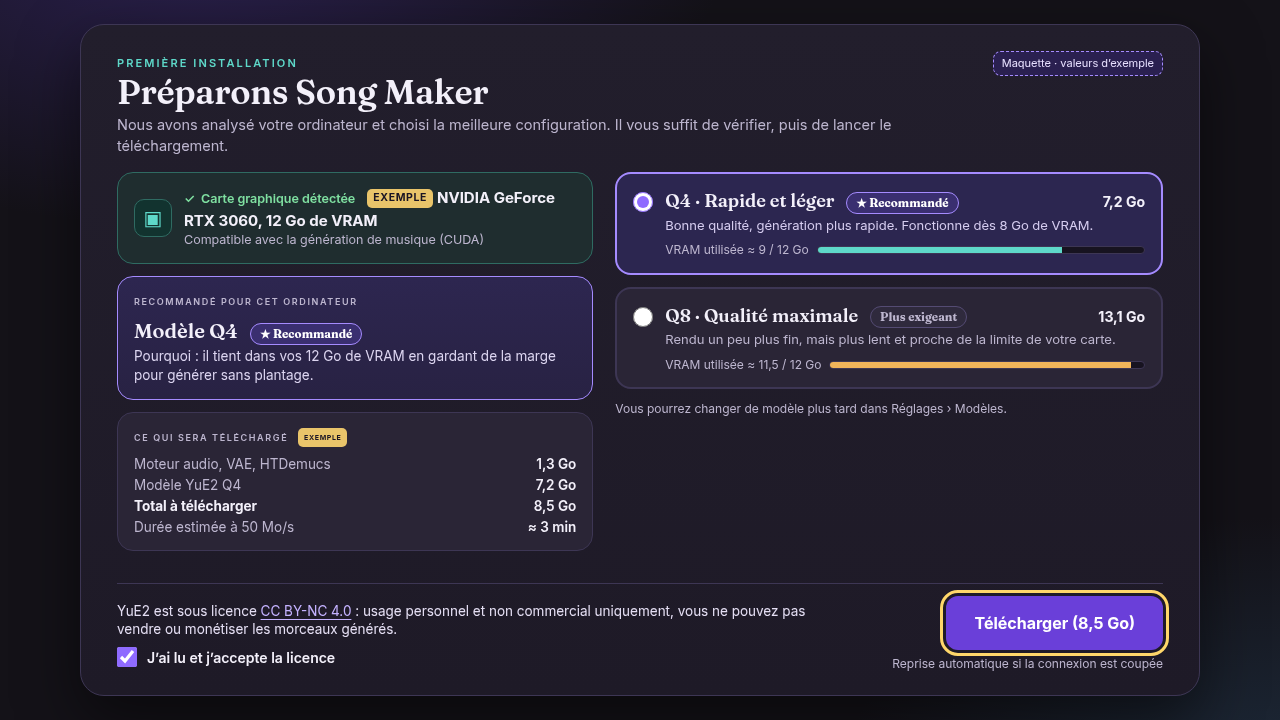
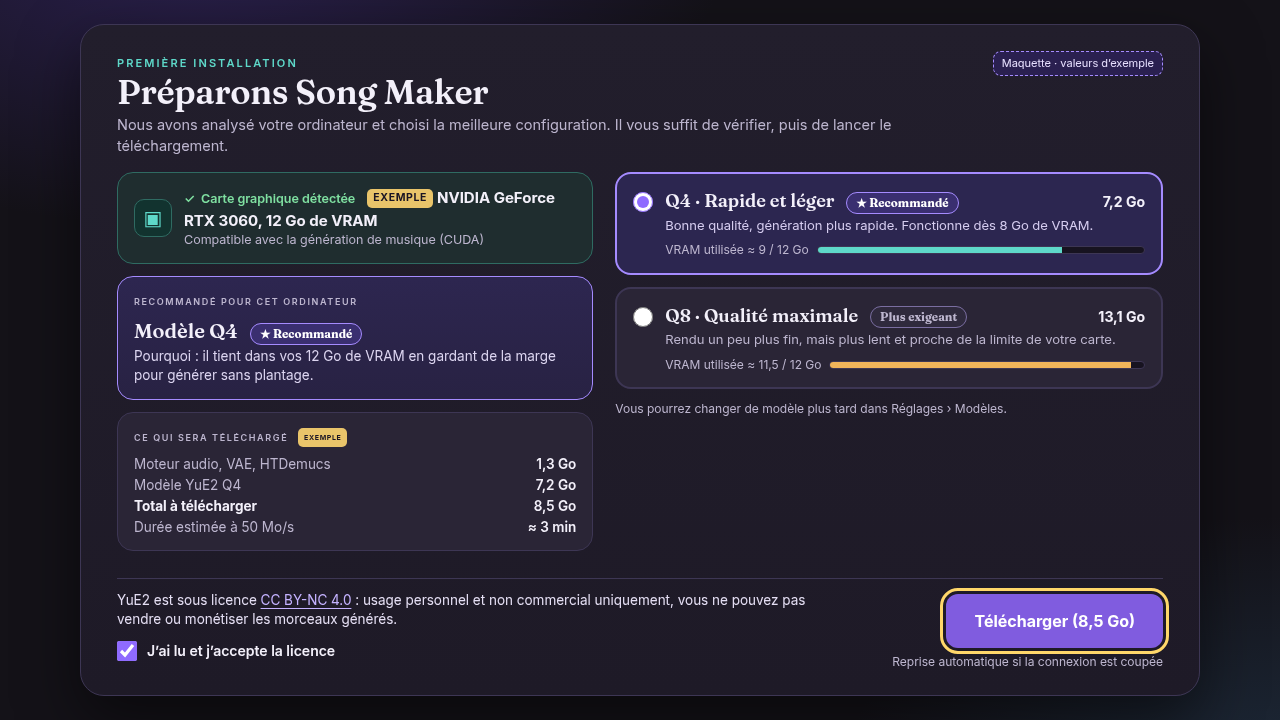
docs(design): contrastes AA mesurés, cibles 44 px, maquette premier lancement (#117)

Changed region(s): [[0.6875, 0.7944, 0.9375, 0.9472], [0.0938, 0.825, 0.625, 0.9472]]

diff --git a/docs/design/first-launch/index.html b/docs/design/first-launch/index.html
@@ -6,8 +6,8 @@
 <meta name="viewport" content="width=1280">
 <style>
 :root{
-  --bg:#141218; --bg2:#1b1723; --card:#221e2c; --card2:#2a2536; --line:#3d3654; --line2:#544b73;
-  --text:#f3f0fa; --muted:#bdb6cf; --teal:#5ed8c9; --purple:#a58bff; --purple-btn:#6a3fd9; --purple-btn-h:#7b52e6;
+  --bg:#141218; --bg2:#1b1723; --card:#221e2c; --card2:#2a2536; --line:#3d3654; --line2:#7a6ea1;
+  --text:#f3f0fa; --muted:#bdb6cf; --teal:#5ed8c9; --purple:#a58bff; --purple-btn:#805cdf; --purple-btn-h:#6a3fd9;
   --warn:#ffb4a8; --warn-bg:#3a1f26; --warn-line:#ff6b6b; --ok:#7fe0a1; --focus:#ffd76a;
   --serif:"Fraunces","Source Serif Pro","Noto Serif",Georgia,serif;
   --sans:"Inter","Segoe UI",system-ui,-apple-system,"Noto Sans",Arial,sans-serif;
@@ -59,7 +59,7 @@ h1{font-family:var(--serif);font-weight:600;font-size:34px;line-height:1.1;margi
 .foot{margin-top:14px;border-top:1px solid var(--line);padding-top:12px;display:flex;gap:24px;align-items:center;justify-content:space-between}
 .license{flex:1}
 .license p{font-size:13.5px;color:#e4def3;max-width:720px}
-.license .cb{display:flex;gap:10px;align-items:center;margin-top:8px;font-weight:600;font-size:14px}
+.license .cb{display:flex;gap:10px;align-items:center;margin-top:0;min-height:44px;font-weight:600;font-size:14px;cursor:pointer}
 .license input{width:20px;height:20px;accent-color:#8f6bff}
 a{color:#c4b2ff;text-decoration:underline;text-underline-offset:3px}
 .btn{font:inherit;font-weight:700;font-size:15px;border-radius:12px;padding:12px 22px;border:2px solid transparent;cursor:pointer;color:#fff;background:var(--purple-btn);display:inline-flex;gap:8px;align-items:center;justify-content:center;white-space:nowrap}
@@ -115,7 +115,7 @@ a{color:#c4b2ff;text-decoration:underline;text-underline-offset:3px}
 .errbox .ai{flex:none;width:32px;height:32px;border-radius:50%;background:#ff6b6b;color:#2a0d10;display:grid;place-items:center;font-weight:900;font-size:18px}
 .row-actions{display:flex;gap:12px;align-items:center;margin-top:auto;padding-top:12px}
 details{font-size:12.5px;color:var(--muted);margin-left:auto}
-summary{cursor:pointer;padding:4px 6px;border-radius:6px}
+summary{cursor:pointer;padding:4px 6px;border-radius:6px;display:inline-flex;align-items:center;min-height:44px;box-sizing:border-box}
 .rot{margin-left:auto}
 
 /* Sheet D */
@@ -338,8 +338,8 @@ body[data-view]:not([data-view="all"]) .nav{display:none}
    <div class="pt"><div class="k">5</div><div><span class="src">Krug · Langage clair et confiance</span><h3>La licence est expliquée avant la case à cocher, en une phrase</h3>
     <p>Usage personnel et non commercial : le consentement est éclairé, pas un « J’accepte » à l’aveugle. Les erreurs disent quoi faire (« vérifiez votre connexion, puis Reprendre ») et rassurent (« rien n’est perdu »). <em>Écrans A et C.</em></p></div></div>
   </div>
-  <div class="a11y"><b>Accessibilité :</b> contrastes ≥ 4,5:1 (texte) sur fond sombre · anneau de focus jaune de 3 px visible au clavier · alertes signalées par une icône, un titre et du texte, jamais par la couleur seule · barres de progression avec valeurs textuelles et rôle <em>progressbar</em> · cibles ≥ 44 px de hauteur.
-   <div class="sw-row"><span style="background:#221e2c;color:#f3f0fa">Texte #F3F0FA / #221E2C</span><span style="background:#221e2c;color:#5ed8c9">Sur-titre #5ED8C9</span><span style="background:#6a3fd9;color:#fff">Bouton #FFF / #6A3FD9</span><span style="background:#3a1f26;color:#ffd5cf">Alerte #FFD5CF / #3A1F26</span><span style="background:#221e2c;color:#ffd76a">Focus #FFD76A</span></div>
+  <div class="a11y"><b>Accessibilité :</b> contrastes ≥ 4,5:1 (texte) sur fond sombre · anneau de focus jaune de 3 px visible au clavier · alertes signalées par une icône, un titre et du texte, jamais par la couleur seule · barres de progression avec valeurs textuelles et rôle <em>progressbar</em> · boutons ≥ 44 px de hauteur ; zone cliquable de la case de licence et de « Détails techniques » portée à 44 px (marge intérieure).
+   <div class="sw-row"><span style="background:#221e2c;color:#f3f0fa">Texte #F3F0FA / #221E2C</span><span style="background:#221e2c;color:#5ed8c9">Sur-titre #5ED8C9</span><span style="background:#805cdf;color:#fff">Bouton #FFF / #805CDF</span><span style="background:#3a1f26;color:#ffd5cf">Alerte #FFD5CF / #3A1F26</span><span style="background:#221e2c;color:#ffd76a">Focus #FFD76A</span></div>
   </div>
   <p class="hint" style="margin-top:8px">Toutes les valeurs (GPU, tailles, durées) sont des données d’exemple pour la maquette.</p>
  </div>

diff --git a/docs/design/first-launch/contrastes.md b/docs/design/first-launch/contrastes.md
@@ -1,0 +1,323 @@
+# Contrastes WCAG 2.2 — maquette Song Maker (thème sombre, premier lancement)
+
+Fichier audité : `/workspace/songmaker-mockup/index.html` (états A, B, C et fiche D), rendu Chrome headless 1280×720.
+Date : 29/09/2026 (Europe/Paris).
+
+## Méthode
+
+- Playwright (Chromium headless, même configuration que `render.py`). Pour **chaque nœud de texte visible** : couleur calculée (`getComputedStyle().color`, alpha fondu), taille et graisse calculées.
+- Fond effectif : capture d'écran avec le texte rendu transparent, puis lecture de **tous les pixels réels derrière chaque ligne de texte** (dégradés, fonds semi-transparents et empilement des ancêtres inclus) ; on retient le pire ratio du nœud.
+- Ratio = formule WCAG 2.x de luminance relative : (L1 + 0,05) / (L2 + 0,05).
+- Seuils : texte normal 4,5:1 ; grand texte (≥ 24 px, ou ≥ 18,66 px en gras) 3:1 ; éléments d'interface non textuels (bordures de contrôles, anneau de focus, remplissage de barre vs piste, icônes porteuses de sens) 3:1 (1.4.11).
+- Composants d'interface : couleurs lues dans le CSS calculé (fond, bordure, outline, `accent-color`) et vérifiées sur pixels ; fond = fond visible autour du composant (élément masqué).
+- Grille de contrôle complémentaire (checklist du skill accessibilité) : états non uniquement en couleur, focus visible, taille des cibles.
+
+## Résultat
+
+- **Paires texte/fond mesurées : 163 nœuds de texte, soit 44 couples de couleurs uniques** — 0 KO.
+- **Composants d'interface / fond : 35 paires** dont 26 exigées (contrôles, focus, barres, icônes porteuses de sens) et 9 indicatives (bordures décoratives de cartes, doublées par du texte ou un contrôle natif).
+- **Échecs avant correction : 12 paires d'interface exigées** (A1, B1-B4, B6, C2, C5-C7, C9, C11), 0 pour le texte. **Après correction : 0 KO.**
+
+## 1. Texte (couples uniques ; annexe = détail des 163 nœuds)
+
+| Élément(s) (exemple) | Écrans | Couleurs (texte / fond) | Ratio | Seuil | Verdict |
+|---|---|---|---|---|---|
+| « Télécharger (8,5 Go) » (16 px/700); « Continuer sans génération » (15 px/700) (+8 autres) | ABCD | `#FFFFFF` / `#805CDF` | 4.65:1 | 4.5:1 | OK |
+| « ! » (20 px/900) | B | `#2A0D10` / `#FF6B6B` | 6.50:1 | 3:1 | OK |
+| « ! » (18 px/900) | C | `#2A0D10` / `#FF6B6B` | 6.50:1 | 4.5:1 | OK |
+| « Plus exigeant » (11.5 px/700) | A | `#BDB6CF` / `#2F2A3D` | 7.08:1 | 4.5:1 | OK |
+| « Recommandé pour cet ordinate… » (13.5 px/600) | A | `#BDB6CF` / `#2D264F` | 7.16:1 | 4.5:1 | OK |
+| « VRAM utilisée ≈ 9 / 12 Go » (12 px/400); « Option 3 · Disponible tout d… » (13 px/400) (+3 autres) | AB | `#BDB6CF` / `#2C2650` | 7.17:1 | 4.5:1 | OK |
+| « Compatible avec la génératio… » (12.5 px/400) | A | `#BDB6CF` / `#1F2D2F` | 7.29:1 | 4.5:1 | OK |
+| « Ce qui sera téléchargé » (13.5 px/600); « Moteur audio, VAE, HTDemucs » (13.5 px/400) (+32 autres) | ABCD | `#BDB6CF` / `#2A2536` | 7.59:1 | 4.5:1 | OK |
+| « Modèle de génération » (12 px/400); « / 7,2 Go · 43 % » (12.5 px/400) (+3 autres) | C | `#BDB6CF` / `#2F2130` | 7.79:1 | 4.5:1 | OK |
+| « ▣ » (20 px/400) | A | `#5ED8C9` / `#12332F` | 7.88:1 | 4.5:1 | OK |
+| « Nous avons analysé votre ord… » (14.5 px/400); « Choisissez comment vous souh… » (14.5 px/400) (+2 autres) | ABC | `#BDB6CF` / `#221E2C` | 8.34:1 | 4.5:1 | OK |
+| « Vous pourrez changer de modè… » (12 px/400) | A | `#BDB6CF` / `#201C2A` | 8.53:1 | 4.5:1 | OK |
+| « Total : » (13 px/400); « reçus sur 8,5 Go (41 %) » (13 px/400) (+2 autres) | C | `#BDB6CF` / `#201C29` | 8.54:1 | 4.5:1 | OK |
+| « Norman · Retour d’informatio… » (13 px/600); « Norman · Affordances et cont… » (13 px/600) (+4 autres) | D | `#5ED8C9` / `#2A2536` | 8.57:1 | 4.5:1 | OK |
+| « Reprise automatique si la co… » (12 px/400); « Aucun modèle lourd ne sera t… » (12.5 px/400) (+3 autres) | ABC | `#BDB6CF` / `#1F1B28` | 8.63:1 | 4.5:1 | OK |
+| « ✓ » (12.5 px/600); « Carte graphique détectée » (12.5 px/600) (+1 autres) | A | `#7FE0A1` / `#1F2D2F` | 8.87:1 | 4.5:1 | OK |
+| « contrastes ≥ 4,5:1 (texte) s… » (12.5 px/400); « progressbar » (12.5 px/400) (+2 autres) | D | `#BDB6CF` / `#1C1826` | 8.90:1 | 4.5:1 | OK |
+| « ⚠ » (13 px/700); « Interrompu » (13 px/700) (+1 autres) | C | `#FFB4A8` / `#2F2130` | 8.94:1 | 4.5:1 | OK |
+| « CC BY-NC 4.0 » (13.5 px/400) | A | `#C4B2FF` / `#1F1B28` | 8.96:1 | 4.5:1 | OK |
+| « Toutes les valeurs (GPU, tai… » (12 px/400) | D | `#BDB6CF` / `#1C1725` | 8.97:1 | 4.5:1 | OK |
+| « Bonne qualité, génération pl… » (13 px/400); « Utilisez la » (13 px/400) (+5 autres) | AB | `#D6CDF0` / `#2C2650` | 9.23:1 | 4.5:1 | OK |
+| « ✓ » (13 px/700); « Terminé » (13 px/700) (+1 autres) | C | `#7FE0A1` / `#2A2536` | 9.23:1 | 4.5:1 | OK |
+| « Première installation » (15 px/600) (+3 autres) | ABCD | `#5ED8C9` / `#221E2C` | 9.41:1 | 4.5:1 | OK |
+| « Fiche de conception » (15 px/600) | D | `#5ED8C9` / `#201B2B` | 9.69:1 | 4.5:1 | OK |
+| « Détection du GPU, progressio… » (13 px/400); « texte. » (13 px/400) (+5 autres) | D | `#D7D0E8` / `#2A2536` | 9.94:1 | 4.5:1 | OK |
+| « Pourquoi : il tient dans vos… » (13.5 px/400) | A | `#DCD5F0` / `#2B2449` | 10.21:1 | 4.5:1 | OK |
+| « Exemple » (10.5 px/700) (+2 autres) | AB | `#1A1424` / `#E9C46A` | 10.75:1 | 4.5:1 | OK |
+| « Attention : aucune carte gra… » (16 px/700); « La connexion Internet a été … » (15.5 px/700) (+2 autres) | BCD | `#FFD5CF` / `#3A1F26` | 11.16:1 | 4.5:1 | OK |
+| « La génération de musique dem… » (13.5 px/400); « NVIDIA » (13.5 px/700) (+7 autres) | BC | `#F5DCD8` / `#3A1F26` | 11.48:1 | 4.5:1 | OK |
+| « ★ Recommandé » (11.5 px/700) (+1 autres) | A | `#FFFFFF` / `#3A2F70` | 11.54:1 | 4.5:1 | OK |
+| « Maquette · valeurs d’exemple » (11 px/400) (+2 autres) | ABC | `#E8E1FF` / `#2A2050` | 11.71:1 | 4.5:1 | OK |
+| « Focus #FFD76A » (11.5 px/400) | D | `#FFD76A` / `#221E2C` | 11.77:1 | 4.5:1 | OK |
+| « Q4 · Rapide et léger » (18 px/600); « 7,2 Go » (14 px/700) (+2 autres) | AB | `#F3F0FA` / `#2C2650` | 12.44:1 | 4.5:1 | OK |
+| « Modèle Q4 » (20 px/600) | A | `#F3F0FA` / `#2C254C` | 12.64:1 | 4.5:1 | OK |
+| « NVIDIA GeForce RTX 3060, 12 … » (15 px/700) | A | `#F3F0FA` / `#1F2D2F` | 12.65:1 | 4.5:1 | OK |
+| « YuE2 est sous licence » (13.5 px/400); « : usage personnel et non com… » (13.5 px/400) (+1 autres) | A | `#E4DEF3` / `#1F1B28` | 12.88:1 | 4.5:1 | OK |
+| « 1,3 Go » (13.5 px/600); « 7,2 Go » (13.5 px/600) (+23 autres) | ABCD | `#F3F0FA` / `#2A2536` | 13.17:1 | 4.5:1 | OK |
+| « YuE2 (Q4) » (14.5 px/700); « 3,1 Go » (12.5 px/600) (+1 autres) | C | `#F3F0FA` / `#2F2130` | 13.51:1 | 4.5:1 | OK |
+| « Préparons Song Maker » (34 px/600) (+2 autres) | ABC | `#F3F0FA` / `#221E2C` | 14.46:1 | 3:1 | OK |
+| « Texte #F3F0FA / #221E2C » (11.5 px/400) | D | `#F3F0FA` / `#221E2C` | 14.46:1 | 4.5:1 | OK |
+| « 3,5 Go » (13 px/700) | C | `#F3F0FA` / `#201C29` | 14.81:1 | 4.5:1 | OK |
+| « Pourquoi cet écran est plus … » (30 px/600) | D | `#F3F0FA` / `#201B2B` | 14.89:1 | 3:1 | OK |
+| « J’ai lu et j’accepte la lice… » (14 px/600); « Annuler et revenir au choix » (15 px/700) (+1 autres) | AC | `#F3F0FA` / `#1F1B28` | 14.98:1 | 4.5:1 | OK |
+| « Accessibilité : » (12.5 px/700) | D | `#F3F0FA` / `#1C1826` | 15.44:1 | 4.5:1 | OK |
+
+Notes : le texte du bouton principal est passé de 6,31:1 à 4,65:1 (couleur de bouton éclaircie, voir corrections) — toujours OK. Les titres H1 (34 px / 30 px) sont évalués en grand texte (3:1) et dépassent largement 14:1. Le texte le plus faible restant est `#FFF` sur `#805CDF` à 4,65:1.
+
+## 2. Composants d'interface (non-texte, 3:1)
+
+Colonnes « Avant » = valeurs d'origine ; « Après » = valeurs après correction.
+
+| N° | Écran | Composant / fond | Couleurs après | Ratio avant | Ratio après | Seuil | Verdict avant | Verdict après |
+|---|---|---|---|---|---|---|---|---|
+| A1 | A | Bouton principal « Télécharger » : remplissage / fond de carte | `#805CDF` / `#1F1B28` | 2.67:1 | 3.62:1 | 3:1 | KO | OK |
+| A2 | A | Anneau de focus 3 px « Télécharger » / fond de carte | `#FFD76A` / `#1F1B28` | 12.19:1 | 12.19:1 | 3:1 | OK | OK |
+| A3 | A | Radio Q4 (cochée) : remplissage accent / fond de carte | `#FFFFFF` / `#2C2650` | 14.00:1 | 14.00:1 | 3:1 | OK | OK |
+| A4 | A | Radio Q8 (non cochée) : contour natif / fond de carte | `#7D7C7D` / `#2A2536` | 3.57:1 | 3.57:1 | 3:1 | OK | OK |
+| A5 | A | Case licence (cochée) : remplissage accent / fond | `#C2AEFF` / `#1E1A28` | 8.75:1 | 8.75:1 | 3:1 | OK | OK |
+| A6 | A | Jauge VRAM Q4 : remplissage / piste | `#5ED8C9` / `#171320` | 10.55:1 | 10.55:1 | 3:1 | OK | OK |
+| A7 | A | Jauge VRAM Q8 : remplissage / piste | `#F0B45A` / `#171320` | 9.89:1 | 9.89:1 | 3:1 | OK | OK |
+| A8 | A | Icône ▣ GPU (pastille) : bordure / fond du panneau | `#2F6B62` / `#1F2D2F` | 2.31:1 | 2.31:1 | 3:1 | KO (indicatif) | KO (indicatif) |
+| A9 | A | Carte modèle Q4 sélectionnée : bordure 2 px / fond | `#A58BFF` / `#221E2B` | 6.00:1 | 6.00:1 | 3:1 | OK | OK |
+| A10 | A | Carte modèle Q8 : bordure 2 px / fond | `#3D3654` / `#211D2A` | 1.46:1 | 1.46:1 | 3:1 | KO (indicatif) | KO (indicatif) |
+| B1 | B | Bouton secondaire « Ouvrir la page des pilotes » : bordure 2 px / fond | `#7A6EA1` / `#2A2536` | 1.86:1 | 3.23:1 | 3:1 | KO | OK |
+| B2 | B | Bouton secondaire « Relancer la détection » : bordure 2 px / fond | `#7A6EA1` / `#2A2536` | 1.86:1 | 3.23:1 | 3:1 | KO | OK |
+| B3 | B | Bouton secondaire « Configurer un worker » : bordure 2 px / fond | `#7A6EA1` / `#2A2536` | 1.86:1 | 3.23:1 | 3:1 | KO | OK |
+| B4 | B | Interrupteur worker (désactivé) : bordure de la piste / fond | `#7A6EA1` / `#2A2536` | 1.86:1 | 3.23:1 | 3:1 | KO | OK |
+| B5 | B | Interrupteur worker : pastille / piste | `#BDB6CF` / `#171320` | 9.35:1 | 9.35:1 | 3:1 | OK | OK |
+| B6 | B | Bouton principal « Continuer sans génération » : remplissage / fond de carte | `#805CDF` / `#2C2650` | 2.22:1 | 3.01:1 | 3:1 | KO | OK |
+| B7 | B | Anneau de focus « Continuer sans génération » / fond de carte | `#FFD76A` / `#2C2650` | 10.12:1 | 10.12:1 | 3:1 | OK | OK |
+| B8 | B | Icône « ! » (disque) : remplissage / fond de l’alerte | `#FF6B6B` / `#3A1F26` | 5.39:1 | 5.39:1 | 3:1 | OK | OK |
+| B9 | B | Cadre d’alerte : bordure 2 px / fond de carte | `#FF6B6B` / `#221E2C` | 5.87:1 | 5.87:1 | 3:1 | OK | OK |
+| B10 | B | Carte option 3 : bordure 2 px / fond de carte | `#A58BFF` / `#211D2B` | 6.07:1 | 6.07:1 | 3:1 | OK | OK |
+| C1 | C | Barre Moteur audio (100 %) : remplissage / piste | `#5ED8C9` / `#171320` | 10.55:1 | 10.55:1 | 3:1 | OK | OK |
+| C2 | C | Barre Moteur audio : bordure de la piste / fond de ligne | `#7A6EA1` / `#2A2536` | 1.86:1 | 3.23:1 | 3:1 | KO | OK |
+| C3 | C | Barre YuE2 (43 %) : hachures claires / piste | `#FF8F8F` / `#171320` | 8.33:1 | 8.33:1 | 3:1 | OK | OK |
+| C4 | C | Barre YuE2 (43 %) : hachures foncées / piste | `#D95C5C` / `#171320` | 4.90:1 | 4.90:1 | 3:1 | OK | OK |
+| C5 | C | Barre YuE2 : bordure de la piste / fond de ligne | `#7A6EA1` / `#2F2130` | 1.90:1 | 3.31:1 | 3:1 | KO | OK |
+| C6 | C | Barre VAE (0 %, vide) : bordure de la piste / fond de ligne | `#7A6EA1` / `#2A2536` | 1.86:1 | 3.23:1 | 3:1 | KO | OK |
+| C7 | C | Barre HTDemucs (0 %, vide) : bordure de la piste / fond de ligne | `#7A6EA1` / `#2A2536` | 1.86:1 | 3.23:1 | 3:1 | KO | OK |
+| C8 | C | Icône « ! » (disque) : remplissage / fond du cadre | `#FF6B6B` / `#3A1F26` | 5.39:1 | 5.39:1 | 3:1 | OK | OK |
+| C9 | C | Bouton principal « Reprendre » : remplissage / fond de carte | `#805CDF` / `#1F1B28` | 2.67:1 | 3.62:1 | 3:1 | KO | OK |
+| C10 | C | Anneau de focus « Reprendre » / fond de carte | `#FFD76A` / `#1F1B28` | 12.19:1 | 12.19:1 | 3:1 | OK | OK |
+| C11 | C | Bouton secondaire « Annuler et revenir » : bordure 2 px / fond de carte | `#7A6EA1` / `#1F1B28` | 2.11:1 | 3.67:1 | 3:1 | KO | OK |
+| C12 | C | Ligne en erreur : bordure 2 px / fond de carte | `#FF6B6B` / `#211D2B` | 5.93:1 | 5.93:1 | 3:1 | OK | OK |
+| C13 | C | Cadre d’erreur : bordure 2 px / fond de carte | `#FF6B6B` / `#1F1B29` | 6.07:1 | 6.07:1 | 3:1 | OK | OK |
+| D1 | D | Pastille numérotée 1–5 : disque / fond de carte | `#805CDF` / `#2A2536` | 2.35:1 | 3.19:1 | 3:1 | KO (indicatif) | OK |
+| D2 | D | Échantillon de couleur (bordure 1 px) / fond | `#7A6EA1` / `#1C1725` | 2.19:1 | 3.81:1 | 3:1 | KO (indicatif) | OK |
+
+Lecture des lignes « indicatives » (non comptées comme échec) :
+- A8 (bordure de la pastille ▣, 2,31:1) : icône décorative (`aria-hidden`), l'information est portée par le texte « Carte graphique détectée » (8,87:1).
+- A10 (bordure de la carte Q8 non sélectionnée, 1,46:1) et A9/B10/C12/C13 : la sélection est portée par le contrôle radio natif (A4 : 3,57:1) et le texte ; la bordure de carte n'est pas l'unique identifiant. **Recommandation facultative** : éclaircir `--line` (`#3D3654`) pour la carte Q8 si l'on veut que la zone cliquable soit aussi repérable (non requis par 1.4.11).
+- D1/D2 : éléments de la fiche de conception, pas de contrôles. D1 (pastille numérotée) passe à 3,19:1 grâce à la nouvelle couleur de bouton.
+- Anneau de focus jaune `#FFD76A` (3 px, décalage 3 px) : 10,1 à 12,2:1 sur tous les fonds de carte ; contre le bouton violet adjacent il fait 4,56:1 (ancien `#6A3FD9`) et 3,4:1 (nouveau `#805CDF`) : OK.
+
+## 3. États non signalés par la couleur seule (1.4.1)
+
+| État | Indices non chromatiques | Verdict |
+|---|---|---|
+| Modèle sélectionné (A) | Radio coché (natif), pastille « ★ Recommandé » avec texte, épaisseur de bordure | OK |
+| Charge VRAM Q4 vs Q8 (A) | Valeurs textuelles « ≈ 9 / 12 Go » et « ≈ 11,5 / 12 Go » ; jauge `aria-hidden` (décorative) | OK |
+| GPU détecté (A) | Icône ✓ + texte « Carte graphique détectée » | OK |
+| Alerte sans GPU (B) | Icône « ! » + titre « Attention : … » + texte + `role="alert"` | OK |
+| Interrupteur worker (B) | Position du bouton à gauche + texte « (désactivé) » | OK |
+| Terminé / Interrompu / En attente (C) | Icônes ✓ / ⚠ / ◷ + libellés texte | OK |
+| Barre en erreur (C) | Hachures (motif) + libellé « Interrompu » + pourcentage 43 % ; `role="progressbar"` avec `aria-valuenow` | OK |
+| Barres vide / pleine (C) | Pourcentage et octets en texte | OK |
+| Focus clavier | Anneau 3 px décalé de 3 px (forme), pas seulement une teinte | OK |
+| Liens | Souligné (`text-decoration:underline`) | OK |
+
+## 4. Autres points de la checklist accessibilité (vérifiés, hors contraste)
+
+- `lang="fr"`, un `<h1>` par écran, landmarks `<main>`, sections nommées : OK.
+- Focus visible défini (`:focus-visible`, 3 px `#FFD76A`) sur boutons, liens, champs, `summary` : OK (2.4.7). Non masqué par un élément fixe : OK (2.4.11).
+- Taille des cibles (2.5.8, 24 px min) : boutons 49–54 px de haut, cartes modèle 548×103, `summary` 134×26 : OK. Les cases/radios natives font 20×20 px mais l'étiquette entière est cliquable ; l'étiquette de la case de licence fait 751×20 px (hauteur 20 < 24 px, exception d'espacement probable, aucun autre contrôle dans un rayon de 24 px). **À surveiller.**
+- La fiche D annonce « cibles ≥ 44 px de hauteur » : vrai pour les boutons (49–54 px) mais pas pour la case de licence (20 px) ni « Détails techniques » (26 px). Formulation à nuancer (aucun changement appliqué).
+- Le texte des puces d'exemple en 11 px et les badges 10,5–11 px passent le contraste mais sont petits (lisibilité, non couvert par WCAG AA).
+
+## 5. Corrections appliquées dans `index.html`
+
+| Variable CSS | Ancienne valeur | Nouvelle valeur | Raison |
+|---|---|---|---|
+| `--line2` | `#544B73` | `#7A6EA1` | Bordures des boutons secondaires (B1-B3, C11), contour de l'interrupteur (B4), bordures des pistes de barres de progression (C2, C5-C7) : 1,7–2,1:1 → 3,2–3,7:1. Valeur minimale conservant la teinte (même H et S, luminosité augmentée) qui atteint ≥ 3:1 sur le pire fond (`#2A2536`, `#2F2130`). |
+| `--purple-btn` | `#6A3FD9` | `#805CDF` | Fond des boutons principaux (A1, B6, C9) et pastilles D1 : 2,2–2,7:1 → 3,0–3,6:1 contre le fond de carte. Texte blanc dessus : 6,31:1 → 4,65:1 (OK). |
+| `--purple-btn-h` (survol) | `#7B52E6` | `#6A3FD9` | L'ancien survol, plus clair que le nouveau bouton, aurait cassé le texte blanc de justesse ; on utilise l'ancienne couleur du bouton (blanc dessus : 6,31:1). |
+| Échantillon fiche D (`style` inline) | `#6a3fd9` + libellé « #FFF / #6A3FD9 » | `#805cdf` + libellé « #FFF / #805CDF » | Cohérence avec le nouveau bouton. |
+
+Les PNG ont été régénérés avec `python3 render.py` :
+`etat-a-gpu-detecte.png`, `etat-b-sans-gpu.png`, `etat-c-telechargement-interrompu.png`, `fiche-d-rationale-design.png` (dans `/workspace/songmaker-mockup/`).
+
+## Annexe — détail des 163 nœuds de texte (après correction)
+
+| Écran | Élément | Texte | Couleurs | Taille/graisse | Ratio | Seuil | Verdict |
+|---|---|---|---|---|---|---|---|
+| A | `div.eyebrow` | Première installation | `#5ED8C9` / `#221E2C` | 15 px / 600 | 9.41:1 | 4.5:1 | OK |
+| A | `h1` | Préparons Song Maker | `#F3F0FA` / `#221E2C` | 34 px / 600 | 14.46:1 | 3:1 | OK |
+| A | `p.lead` | Nous avons analysé votre ordinateur  | `#BDB6CF` / `#221E2C` | 14.5 px / 400 | 8.34:1 | 4.5:1 | OK |
+| A | `span.mockbadge` | Maquette · valeurs d’exemple | `#E8E1FF` / `#2A2050` | 11 px / 400 | 11.71:1 | 4.5:1 | OK |
+| A | `div.ico` | ▣ | `#5ED8C9` / `#12332F` | 20 px / 400 | 7.88:1 | 4.5:1 | OK |
+| A | `span` | ✓ | `#7FE0A1` / `#1F2D2F` | 12.5 px / 600 | 8.87:1 | 4.5:1 | OK |
+| A | `span.status` | Carte graphique détectée | `#7FE0A1` / `#1F2D2F` | 12.5 px / 600 | 8.87:1 | 4.5:1 | OK |
+| A | `span.tag-ex` | Exemple | `#1A1424` / `#E9C46A` | 10.5 px / 700 | 10.75:1 | 4.5:1 | OK |
+| A | `b` | NVIDIA GeForce RTX 3060, 12 Go de VR | `#F3F0FA` / `#1F2D2F` | 15 px / 700 | 12.65:1 | 4.5:1 | OK |
+| A | `small` | Compatible avec la génération de mus | `#BDB6CF` / `#1F2D2F` | 12.5 px / 400 | 7.29:1 | 4.5:1 | OK |
+| A | `h2` | Recommandé pour cet ordinateur | `#BDB6CF` / `#2D264F` | 13.5 px / 600 | 7.16:1 | 4.5:1 | OK |
+| A | `div.big` | Modèle Q4 | `#F3F0FA` / `#2C254C` | 20 px / 600 | 12.64:1 | 4.5:1 | OK |
+| A | `span.chip` | ★ Recommandé | `#FFFFFF` / `#3A2F70` | 11.5 px / 700 | 11.54:1 | 4.5:1 | OK |
+| A | `p` | Pourquoi : il tient dans vos 12 Go d | `#DCD5F0` / `#2B2449` | 13.5 px / 400 | 10.21:1 | 4.5:1 | OK |
+| A | `h2` | Ce qui sera téléchargé | `#BDB6CF` / `#2A2536` | 13.5 px / 600 | 7.59:1 | 4.5:1 | OK |
+| A | `span.tag-ex` | Exemple | `#1A1424` / `#E9C46A` | 10.5 px / 700 | 10.75:1 | 4.5:1 | OK |
+| A | `dt` | Moteur audio, VAE, HTDemucs | `#BDB6CF` / `#2A2536` | 13.5 px / 400 | 7.59:1 | 4.5:1 | OK |
+| A | `dd` | 1,3 Go | `#F3F0FA` / `#2A2536` | 13.5 px / 600 | 13.17:1 | 4.5:1 | OK |
+| A | `dt` | Modèle YuE2 Q4 | `#BDB6CF` / `#2A2536` | 13.5 px / 400 | 7.59:1 | 4.5:1 | OK |
+| A | `dd` | 7,2 Go | `#F3F0FA` / `#2A2536` | 13.5 px / 600 | 13.17:1 | 4.5:1 | OK |
+| A | `dt` | Total à télécharger | `#F3F0FA` / `#2A2536` | 13.5 px / 700 | 13.17:1 | 4.5:1 | OK |
+| A | `dd` | 8,5 Go | `#F3F0FA` / `#2A2536` | 13.5 px / 600 | 13.17:1 | 4.5:1 | OK |
+| A | `dt` | Durée estimée à 50 Mo/s | `#BDB6CF` / `#2A2536` | 13.5 px / 400 | 7.59:1 | 4.5:1 | OK |
+| A | `dd` | ≈ 3 min | `#F3F0FA` / `#2A2536` | 13.5 px / 600 | 13.17:1 | 4.5:1 | OK |
+| A | `b` | Q4 · Rapide et léger | `#F3F0FA` / `#2C2650` | 18 px / 600 | 12.44:1 | 4.5:1 | OK |
+| A | `span.chip` | ★ Recommandé | `#FFFFFF` / `#3A2F70` | 11.5 px / 700 | 11.54:1 | 4.5:1 | OK |
+| A | `span.size` | 7,2 Go | `#F3F0FA` / `#2C2650` | 14 px / 700 | 12.44:1 | 4.5:1 | OK |
+| A | `p` | Bonne qualité, génération plus rapid | `#D6CDF0` / `#2C2650` | 13 px / 400 | 9.23:1 | 4.5:1 | OK |
+| A | `span` | VRAM utilisée ≈ 9 / 12 Go | `#BDB6CF` / `#2C2650` | 12 px / 400 | 7.17:1 | 4.5:1 | OK |
+| A | `b` | Q8 · Qualité maximale | `#F3F0FA` / `#2A2536` | 18 px / 600 | 13.17:1 | 4.5:1 | OK |
+| A | `span.chip.neutral` | Plus exigeant | `#BDB6CF` / `#2F2A3D` | 11.5 px / 700 | 7.08:1 | 4.5:1 | OK |
+| A | `span.size` | 13,1 Go | `#F3F0FA` / `#2A2536` | 14 px / 700 | 13.17:1 | 4.5:1 | OK |
+| A | `p` | Rendu un peu plus fin, mais plus len | `#BDB6CF` / `#2A2536` | 13 px / 400 | 7.59:1 | 4.5:1 | OK |
+| A | `span` | VRAM utilisée ≈ 11,5 / 12 Go | `#BDB6CF` / `#2A2536` | 12 px / 400 | 7.59:1 | 4.5:1 | OK |
+| A | `p.hint` | Vous pourrez changer de modèle plus  | `#BDB6CF` / `#201C2A` | 12 px / 400 | 8.53:1 | 4.5:1 | OK |
+| A | `p` | YuE2 est sous licence | `#E4DEF3` / `#1F1B28` | 13.5 px / 400 | 12.88:1 | 4.5:1 | OK |
+| A | `a` | CC BY-NC 4.0 | `#C4B2FF` / `#1F1B28` | 13.5 px / 400 | 8.96:1 | 4.5:1 | OK |
+| A | `p` | : usage personnel et non commercial  | `#E4DEF3` / `#1F1B28` | 13.5 px / 400 | 12.88:1 | 4.5:1 | OK |
+| A | `label.cb` | J’ai lu et j’accepte la licence | `#F3F0FA` / `#1F1B28` | 14 px / 600 | 14.98:1 | 4.5:1 | OK |
+| A | `button.btn.lg.focus-demo` | Télécharger (8,5 Go) | `#FFFFFF` / `#805CDF` | 16 px / 700 | 4.65:1 | 4.5:1 | OK |
+| A | `span.hint` | Reprise automatique si la connexion  | `#BDB6CF` / `#1F1B28` | 12 px / 400 | 8.63:1 | 4.5:1 | OK |
+| B | `div.eyebrow` | Première installation | `#5ED8C9` / `#221E2C` | 15 px / 600 | 9.41:1 | 4.5:1 | OK |
+| B | `h1` | Préparons Song Maker | `#F3F0FA` / `#221E2C` | 34 px / 600 | 14.46:1 | 3:1 | OK |
+| B | `p.lead` | Choisissez comment vous souhaitez ut | `#BDB6CF` / `#221E2C` | 14.5 px / 400 | 8.34:1 | 4.5:1 | OK |
+| B | `span.mockbadge` | Maquette · valeurs d’exemple | `#E8E1FF` / `#2A2050` | 11 px / 400 | 11.71:1 | 4.5:1 | OK |
+| B | `div.ai` | ! | `#2A0D10` / `#FF6B6B` | 20 px / 900 | 6.50:1 | 3:1 | OK |
+| B | `h2` | Attention : aucune carte graphique c | `#FFD5CF` / `#3A1F26` | 16 px / 700 | 11.16:1 | 4.5:1 | OK |
+| B | `p` | La génération de musique demande une | `#F5DCD8` / `#3A1F26` | 13.5 px / 400 | 11.48:1 | 4.5:1 | OK |
+| B | `b` | NVIDIA | `#F5DCD8` / `#3A1F26` | 13.5 px / 700 | 11.48:1 | 4.5:1 | OK |
+| B | `p` | (Windows ou Linux) ou une puce | `#F5DCD8` / `#3A1F26` | 13.5 px / 400 | 11.48:1 | 4.5:1 | OK |
+| B | `b` | Apple avec Metal | `#F5DCD8` / `#3A1F26` | 13.5 px / 700 | 11.48:1 | 4.5:1 | OK |
+| B | `p` | (Mac). Sans elle, le modèle YuE2 ne  | `#F5DCD8` / `#3A1F26` | 13.5 px / 400 | 11.48:1 | 4.5:1 | OK |
+| B | `span.num` | Option 1 · Si vous avez une carte NV | `#BDB6CF` / `#2A2536` | 13 px / 400 | 7.59:1 | 4.5:1 | OK |
+| B | `h3#b1` | Installer ou mettre à jour le pilote | `#F3F0FA` / `#2A2536` | 18 px / 600 | 13.17:1 | 4.5:1 | OK |
+| B | `p` | Un pilote absent ou trop ancien est  | `#BDB6CF` / `#2A2536` | 13 px / 400 | 7.59:1 | 4.5:1 | OK |
+| B | `li` | Ouvre le site officiel de NVIDIA | `#BDB6CF` / `#2A2536` | 12.5 px / 400 | 7.59:1 | 4.5:1 | OK |
+| B | `li` | Redémarrage possible | `#BDB6CF` / `#2A2536` | 12.5 px / 400 | 7.59:1 | 4.5:1 | OK |
+| B | `a.btn.sec` | Ouvrir la page des pilotes ↗ | `#F3F0FA` / `#2A2536` | 15 px / 700 | 13.17:1 | 4.5:1 | OK |
+| B | `button.btn.sec` | ↻ Relancer la détection | `#F3F0FA` / `#2A2536` | 15 px / 700 | 13.17:1 | 4.5:1 | OK |
+| B | `span.num` | Option 2 · Facultatif | `#BDB6CF` / `#2A2536` | 13 px / 400 | 7.59:1 | 4.5:1 | OK |
+| B | `h3#b2` | Utiliser un worker GPU distant | `#F3F0FA` / `#2A2536` | 18 px / 600 | 13.17:1 | 4.5:1 | OK |
+| B | `p` | Un autre ordinateur ou un serveur GP | `#BDB6CF` / `#2A2536` | 13 px / 400 | 7.59:1 | 4.5:1 | OK |
+| B | `li` | Désactivé par défaut | `#BDB6CF` / `#2A2536` | 12.5 px / 400 | 7.59:1 | 4.5:1 | OK |
+| B | `li` | Vos données audio quittent cet ordin | `#BDB6CF` / `#2A2536` | 12.5 px / 400 | 7.59:1 | 4.5:1 | OK |
+| B | `label.toggle` | Activer le worker distant (désactivé | `#F3F0FA` / `#2A2536` | 12.5 px / 600 | 13.17:1 | 4.5:1 | OK |
+| B | `button.btn.sec` | Configurer un worker… | `#F3F0FA` / `#2A2536` | 15 px / 700 | 13.17:1 | 4.5:1 | OK |
+| B | `span.num` | Option 3 · Disponible tout de suite | `#BDB6CF` / `#2C2650` | 13 px / 400 | 7.17:1 | 4.5:1 | OK |
+| B | `h3#b3` | Continuer sans génération | `#F3F0FA` / `#2C2650` | 18 px / 600 | 12.44:1 | 4.5:1 | OK |
+| B | `p` | Utilisez la | `#D6CDF0` / `#2C2650` | 13 px / 400 | 9.23:1 | 4.5:1 | OK |
+| B | `b` | séparation de stems | `#D6CDF0` / `#2C2650` | 13 px / 700 | 9.23:1 | 4.5:1 | OK |
+| B | `p` | et le | `#D6CDF0` / `#2C2650` | 13 px / 400 | 9.23:1 | 4.5:1 | OK |
+| B | `b` | mixage | `#D6CDF0` / `#2C2650` | 13 px / 700 | 9.23:1 | 4.5:1 | OK |
+| B | `p` | . Seul HTDemucs (0,3 Go, exemple) se | `#D6CDF0` / `#2C2650` | 13 px / 400 | 9.23:1 | 4.5:1 | OK |
+| B | `li` | La génération de musique sera désact | `#BDB6CF` / `#2C2650` | 12.5 px / 400 | 7.17:1 | 4.5:1 | OK |
+| B | `li` | Modifiable plus tard dans les Réglag | `#BDB6CF` / `#2C2650` | 12.5 px / 400 | 7.17:1 | 4.5:1 | OK |
+| B | `button.btn.focus-demo` | Continuer sans génération | `#FFFFFF` / `#805CDF` | 15 px / 700 | 4.65:1 | 4.5:1 | OK |
+| B | `span` | Aucun modèle lourd ne sera télécharg | `#BDB6CF` / `#1F1B28` | 12.5 px / 400 | 8.63:1 | 4.5:1 | OK |
+| B | `span` | Détection : aucun GPU NVIDIA ni Appl | `#BDB6CF` / `#1F1B28` | 12.5 px / 400 | 8.63:1 | 4.5:1 | OK |
+| B | `span.tag-ex` | Exemple | `#1A1424` / `#E9C46A` | 10.5 px / 700 | 10.75:1 | 4.5:1 | OK |
+| C | `div.eyebrow` | Première installation · Téléchargeme | `#5ED8C9` / `#221E2C` | 15 px / 600 | 9.41:1 | 4.5:1 | OK |
+| C | `h1` | Téléchargement interrompu | `#F3F0FA` / `#221E2C` | 34 px / 600 | 14.46:1 | 3:1 | OK |
+| C | `p.lead` | Rien n’est perdu : les fichiers déjà | `#BDB6CF` / `#221E2C` | 14.5 px / 400 | 8.34:1 | 4.5:1 | OK |
+| C | `span.mockbadge` | Maquette · valeurs d’exemple | `#E8E1FF` / `#2A2050` | 11 px / 400 | 11.71:1 | 4.5:1 | OK |
+| C | `b` | Moteur audio | `#F3F0FA` / `#2A2536` | 14.5 px / 700 | 13.17:1 | 4.5:1 | OK |
+| C | `span` | Traitement du son | `#BDB6CF` / `#2A2536` | 12 px / 400 | 7.59:1 | 4.5:1 | OK |
+| C | `b` | 412 Mo | `#F3F0FA` / `#2A2536` | 12.5 px / 600 | 13.17:1 | 4.5:1 | OK |
+| C | `span` | / 412 Mo | `#BDB6CF` / `#2A2536` | 12.5 px / 400 | 7.59:1 | 4.5:1 | OK |
+| C | `span` | 100 % | `#BDB6CF` / `#2A2536` | 12.5 px / 400 | 7.59:1 | 4.5:1 | OK |
+| C | `span` | ✓ | `#7FE0A1` / `#2A2536` | 13 px / 700 | 9.23:1 | 4.5:1 | OK |
+| C | `div.st.ok` | Terminé | `#7FE0A1` / `#2A2536` | 13 px / 700 | 9.23:1 | 4.5:1 | OK |
+| C | `b` | YuE2 (Q4) | `#F3F0FA` / `#2F2130` | 14.5 px / 700 | 13.51:1 | 4.5:1 | OK |
+| C | `span` | Modèle de génération | `#BDB6CF` / `#2F2130` | 12 px / 400 | 7.79:1 | 4.5:1 | OK |
+| C | `b` | 3,1 Go | `#F3F0FA` / `#2F2130` | 12.5 px / 600 | 13.51:1 | 4.5:1 | OK |
+| C | `span` | / 7,2 Go · 43 % | `#BDB6CF` / `#2F2130` | 12.5 px / 400 | 7.79:1 | 4.5:1 | OK |
+| C | `span` | Vitesse : 0 Mo/s (avant coupure : 48 | `#BDB6CF` / `#2F2130` | 12.5 px / 400 | 7.79:1 | 4.5:1 | OK |
+| C | `span` | ⚠ | `#FFB4A8` / `#2F2130` | 13 px / 700 | 8.94:1 | 4.5:1 | OK |
+| C | `span` | Interrompu | `#FFB4A8` / `#2F2130` | 13 px / 700 | 8.94:1 | 4.5:1 | OK |
+| C | `small` | Reste ≈ 1 min 25 s après reprise | `#BDB6CF` / `#2F2130` | 12 px / 400 | 7.79:1 | 4.5:1 | OK |
+| C | `b` | VAE | `#F3F0FA` / `#2A2536` | 14.5 px / 700 | 13.17:1 | 4.5:1 | OK |
+| C | `span` | Décodage audio | `#BDB6CF` / `#2A2536` | 12 px / 400 | 7.59:1 | 4.5:1 | OK |
+| C | `b` | 0 Mo | `#F3F0FA` / `#2A2536` | 12.5 px / 600 | 13.17:1 | 4.5:1 | OK |
+| C | `span` | / 620 Mo | `#BDB6CF` / `#2A2536` | 12.5 px / 400 | 7.59:1 | 4.5:1 | OK |
+| C | `span` | 0 % | `#BDB6CF` / `#2A2536` | 12.5 px / 400 | 7.59:1 | 4.5:1 | OK |
+| C | `span` | ◷ | `#BDB6CF` / `#2A2536` | 13 px / 700 | 7.59:1 | 4.5:1 | OK |
+| C | `div.st.wt` | En attente | `#BDB6CF` / `#2A2536` | 13 px / 700 | 7.59:1 | 4.5:1 | OK |
+| C | `b` | HTDemucs | `#F3F0FA` / `#2A2536` | 14.5 px / 700 | 13.17:1 | 4.5:1 | OK |
+| C | `span` | Séparation de stems | `#BDB6CF` / `#2A2536` | 12 px / 400 | 7.59:1 | 4.5:1 | OK |
+| C | `b` | 0 Mo | `#F3F0FA` / `#2A2536` | 12.5 px / 600 | 13.17:1 | 4.5:1 | OK |
+| C | `span` | / 300 Mo | `#BDB6CF` / `#2A2536` | 12.5 px / 400 | 7.59:1 | 4.5:1 | OK |
+| C | `span` | 0 % | `#BDB6CF` / `#2A2536` | 12.5 px / 400 | 7.59:1 | 4.5:1 | OK |
+| C | `span` | ◷ | `#BDB6CF` / `#2A2536` | 13 px / 700 | 7.59:1 | 4.5:1 | OK |
+| C | `div.st.wt` | En attente | `#BDB6CF` / `#2A2536` | 13 px / 700 | 7.59:1 | 4.5:1 | OK |
+| C | `span` | Total : | `#BDB6CF` / `#201C29` | 13 px / 400 | 8.54:1 | 4.5:1 | OK |
+| C | `b` | 3,5 Go | `#F3F0FA` / `#201C29` | 13 px / 700 | 14.81:1 | 4.5:1 | OK |
+| C | `span` | reçus sur 8,5 Go (41 %) | `#BDB6CF` / `#201C29` | 13 px / 400 | 8.54:1 | 4.5:1 | OK |
+| C | `span` | Temps restant estimé après reprise : | `#BDB6CF` / `#201C29` | 13 px / 400 | 8.54:1 | 4.5:1 | OK |
+| C | `div.ai` | ! | `#2A0D10` / `#FF6B6B` | 18 px / 900 | 6.50:1 | 4.5:1 | OK |
+| C | `h2` | La connexion Internet a été coupée p | `#FFD5CF` / `#3A1F26` | 15.5 px / 700 | 11.16:1 | 4.5:1 | OK |
+| C | `p` | Ce n’est pas grave, vos 3,1 Go déjà  | `#F5DCD8` / `#3A1F26` | 13.5 px / 400 | 11.48:1 | 4.5:1 | OK |
+| C | `li` | Vérifiez que vous êtes connecté à In | `#F5DCD8` / `#3A1F26` | 13.5 px / 400 | 11.48:1 | 4.5:1 | OK |
+| C | `li` | Cliquez sur « Reprendre ». Si cela é | `#F5DCD8` / `#3A1F26` | 13.5 px / 400 | 11.48:1 | 4.5:1 | OK |
+| C | `button.btn.lg.focus-demo` | ▶ Reprendre le téléchargement | `#FFFFFF` / `#805CDF` | 16 px / 700 | 4.65:1 | 4.5:1 | OK |
+| C | `button.btn.sec` | Annuler et revenir au choix | `#F3F0FA` / `#1F1B28` | 15 px / 700 | 14.98:1 | 4.5:1 | OK |
+| C | `summary` | Détails techniques | `#BDB6CF` / `#1F1B28` | 12.5 px / 400 | 8.63:1 | 4.5:1 | OK |
+| D | `div.eyebrow` | Fiche de conception | `#5ED8C9` / `#201B2B` | 15 px / 600 | 9.69:1 | 4.5:1 | OK |
+| D | `h1` | Pourquoi cet écran est plus simple à | `#F3F0FA` / `#201B2B` | 30 px / 600 | 14.89:1 | 3:1 | OK |
+| D | `div.k` | 1 | `#FFFFFF` / `#805CDF` | 16 px / 800 | 4.65:1 | 4.5:1 | OK |
+| D | `span.src` | Norman · Retour d’information | `#5ED8C9` / `#2A2536` | 13 px / 600 | 8.57:1 | 4.5:1 | OK |
+| D | `h3` | Le système dit toujours où il en est | `#F3F0FA` / `#2A2536` | 15 px / 700 | 13.17:1 | 4.5:1 | OK |
+| D | `p` | Détection du GPU, progression par fi | `#D7D0E8` / `#2A2536` | 13 px / 400 | 9.94:1 | 4.5:1 | OK |
+| D | `em` | et | `#BDB6CF` / `#2A2536` | 13 px / 400 | 7.59:1 | 4.5:1 | OK |
+| D | `p` | texte. | `#D7D0E8` / `#2A2536` | 13 px / 400 | 9.94:1 | 4.5:1 | OK |
+| D | `em` | Écrans A et C. | `#BDB6CF` / `#2A2536` | 13 px / 400 | 7.59:1 | 4.5:1 | OK |
+| D | `div.k` | 2 | `#FFFFFF` / `#805CDF` | 16 px / 800 | 4.65:1 | 4.5:1 | OK |
+| D | `span.src` | Norman · Affordances et contraintes | `#5ED8C9` / `#2A2536` | 13 px / 600 | 8.57:1 | 4.5:1 | OK |
+| D | `h3` | Seule l’action possible est mise en  | `#F3F0FA` / `#2A2536` | 15 px / 700 | 13.17:1 | 4.5:1 | OK |
+| D | `p` | Sans GPU, aucun bouton « Télécharger | `#D7D0E8` / `#2A2536` | 13 px / 400 | 9.94:1 | 4.5:1 | OK |
+| D | `em` | Écrans B et C. | `#BDB6CF` / `#2A2536` | 13 px / 400 | 7.59:1 | 4.5:1 | OK |
+| D | `div.k` | 3 | `#FFFFFF` / `#805CDF` | 16 px / 800 | 4.65:1 | 4.5:1 | OK |
+| D | `span.src` | Krug · Ne me faites pas réfléchir | `#5ED8C9` / `#2A2536` | 13 px / 600 | 8.57:1 | 4.5:1 | OK |
+| D | `h3` | Une recommandation, pas un questionn | `#F3F0FA` / `#2A2536` | 15 px / 700 | 13.17:1 | 4.5:1 | OK |
+| D | `p` | Le modèle adapté est présélectionné  | `#D7D0E8` / `#2A2536` | 13 px / 400 | 9.94:1 | 4.5:1 | OK |
+| D | `em` | Écran A. | `#BDB6CF` / `#2A2536` | 13 px / 400 | 7.59:1 | 4.5:1 | OK |
+| D | `div.k` | 4 | `#FFFFFF` / `#805CDF` | 16 px / 800 | 4.65:1 | 4.5:1 | OK |
+| D | `span.src` | Divulgation progressive | `#5ED8C9` / `#2A2536` | 13 px / 600 | 8.57:1 | 4.5:1 | OK |
+| D | `h3` | L’essentiel d’abord, le détail à la  | `#F3F0FA` / `#2A2536` | 15 px / 700 | 13.17:1 | 4.5:1 | OK |
+| D | `p` | Q8, worker distant et détails techni | `#D7D0E8` / `#2A2536` | 13 px / 400 | 9.94:1 | 4.5:1 | OK |
+| D | `em` | Écrans A, B et C. | `#BDB6CF` / `#2A2536` | 13 px / 400 | 7.59:1 | 4.5:1 | OK |
+| D | `div.k` | 5 | `#FFFFFF` / `#805CDF` | 16 px / 800 | 4.65:1 | 4.5:1 | OK |
+| D | `span.src` | Krug · Langage clair et confiance | `#5ED8C9` / `#2A2536` | 13 px / 600 | 8.57:1 | 4.5:1 | OK |
+| D | `h3` | La licence est expliquée avant la ca | `#F3F0FA` / `#2A2536` | 15 px / 700 | 13.17:1 | 4.5:1 | OK |
+| D | `p` | Usage personnel et non commercial :  | `#D7D0E8` / `#2A2536` | 13 px / 400 | 9.94:1 | 4.5:1 | OK |
+| D | `em` | Écrans A et C. | `#BDB6CF` / `#2A2536` | 13 px / 400 | 7.59:1 | 4.5:1 | OK |
+| D | `b` | Accessibilité : | `#F3F0FA` / `#1C1826` | 12.5 px / 700 | 15.44:1 | 4.5:1 | OK |
+| D | `div.a11y` | contrastes ≥ 4,5:1 (texte) sur fond  | `#BDB6CF` / `#1C1826` | 12.5 px / 400 | 8.90:1 | 4.5:1 | OK |
+| D | `em` | progressbar | `#BDB6CF` / `#1C1826` | 12.5 px / 400 | 8.90:1 | 4.5:1 | OK |
+| D | `div.a11y` | · cibles ≥ 44 px de hauteur. | `#BDB6CF` / `#1C1826` | 12.5 px / 400 | 8.90:1 | 4.5:1 | OK |
+| D | `span` | Texte #F3F0FA / #221E2C | `#F3F0FA` / `#221E2C` | 11.5 px / 400 | 14.46:1 | 4.5:1 | OK |
+| D | `span` | Sur-titre #5ED8C9 | `#5ED8C9` / `#221E2C` | 11.5 px / 400 | 9.41:1 | 4.5:1 | OK |
+| D | `span` | Bouton #FFF / #805CDF | `#FFFFFF` / `#805CDF` | 11.5 px / 400 | 4.65:1 | 4.5:1 | OK |
+| D | `span` | Alerte #FFD5CF / #3A1F26 | `#FFD5CF` / `#3A1F26` | 11.5 px / 400 | 11.16:1 | 4.5:1 | OK |
+| D | `span` | Focus #FFD76A | `#FFD76A` / `#221E2C` | 11.5 px / 400 | 11.77:1 | 4.5:1 | OK |
+| D | `p.hint` | Toutes les valeurs (GPU, tailles, du | `#BDB6CF` / `#1C1725` | 12 px / 400 | 8.97:1 | 4.5:1 | OK |
+
+- **Changement 29/09/2026 (cibles tactiles)** : zone cliquable de la case de licence (20 → 44 px, `min-height:44px` sur `.cb`) et de « Détails techniques » (26 → 44 px, `min-height:44px` sur `summary`) portée à 44 px ; taille visuelle quasi inchangée. Fiche D reformulée : « boutons ≥ 44 px de hauteur ; zone cliquable de la case de licence et de « Détails techniques » portée à 44 px ». PNG régénérés via `render.py`, aucun débordement (vérifié sur A–D, 1280×720). Ce changement ne modifie aucune couleur ni aucun ratio.

diff --git a/docs/design/first-launch/README.md b/docs/design/first-launch/README.md
@@ -19,10 +19,12 @@ Maquette de l'écran de premier lancement de Song Maker.
 - `index.html` : affiche tous les états empilés sur une seule page, avec les ancres `#a`, `#b`, `#c` et `#d`. À ouvrir directement dans un navigateur.
 - `etat-a-gpu-detecte.png`, `etat-b-sans-gpu.png`, `etat-c-telechargement-interrompu.png` : captures de chaque état.
 - `fiche-d-rationale-design.png` : fiche de justification du design.
+- `contrastes.md` : rapport d'audit de contraste WCAG (mesures avant/après correction).
 
 ## Notes importantes
 
 - **Tous les chiffres sont des valeurs d'EXEMPLE** (VRAM, tailles de poids, débits, durées, etc.). Ils ne sont pas issus de mesures réelles.
-- **Les ratios de contraste AA sont une intention de design**, pas encore mesurés. Ils sont à vérifier lors de l'implémentation.
+- **Les ratios de contraste AA sont désormais MESURÉS** (voir `contrastes.md` : 0 échec après 2 changements de couleur : `--line2` #7A6EA1, `--purple-btn` #805CDF, survol `--purple-btn-h` #6A3FD9). Ce ne sont plus une intention de design.
+- **Cibles tactiles** : 44 px minimum pour les boutons, la case de licence et « Détails techniques » (zone cliquable).
 - **macOS avec Metal** utilise l'état A, avec le libellé « Apple Metal détecté ».
 - L'état B (sans GPU) ne concerne que Linux et Windows.
